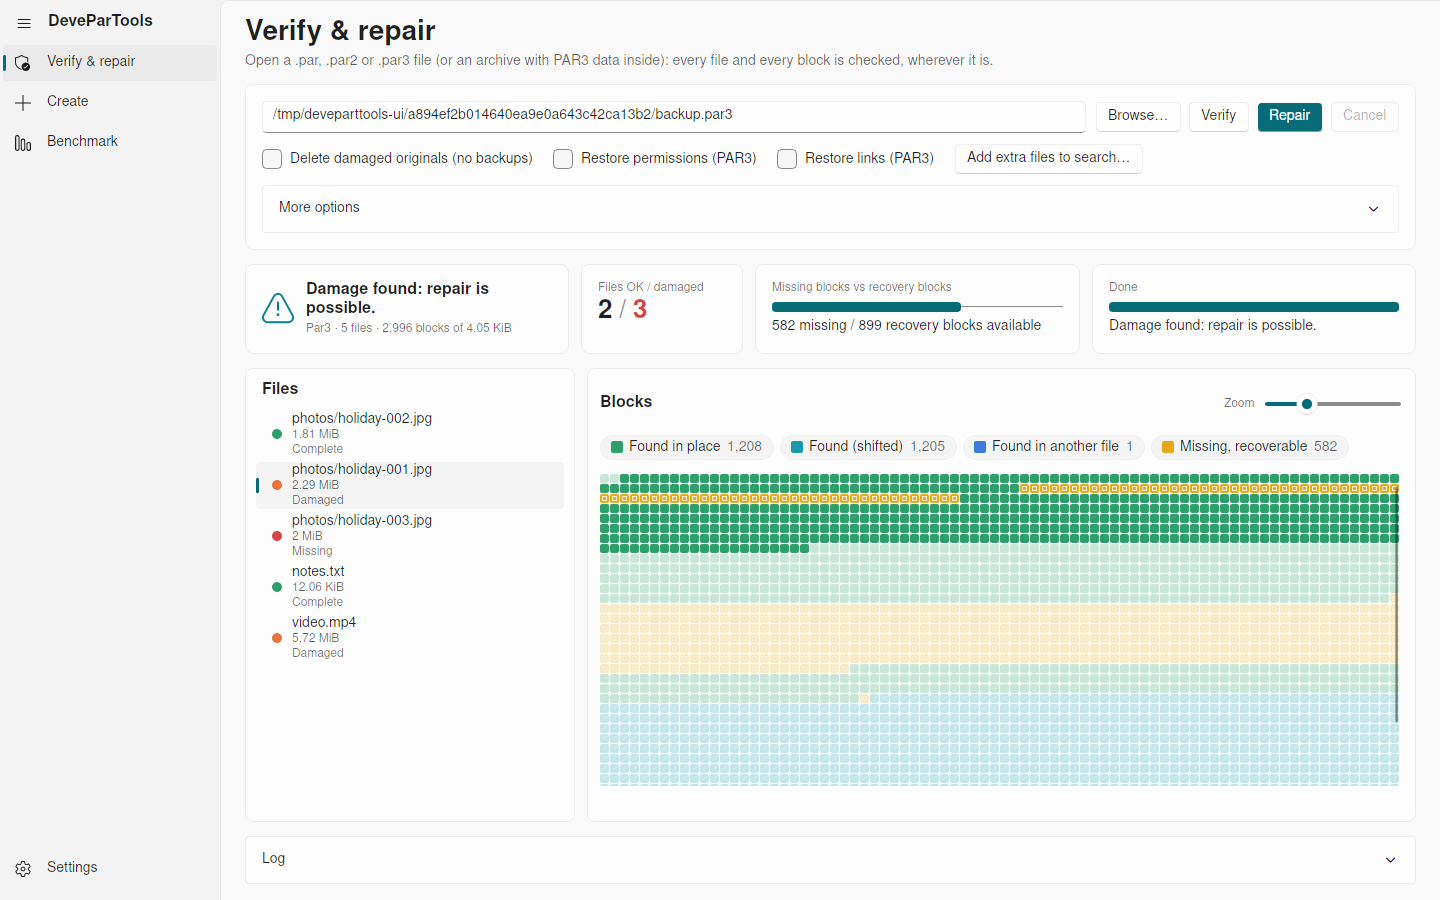
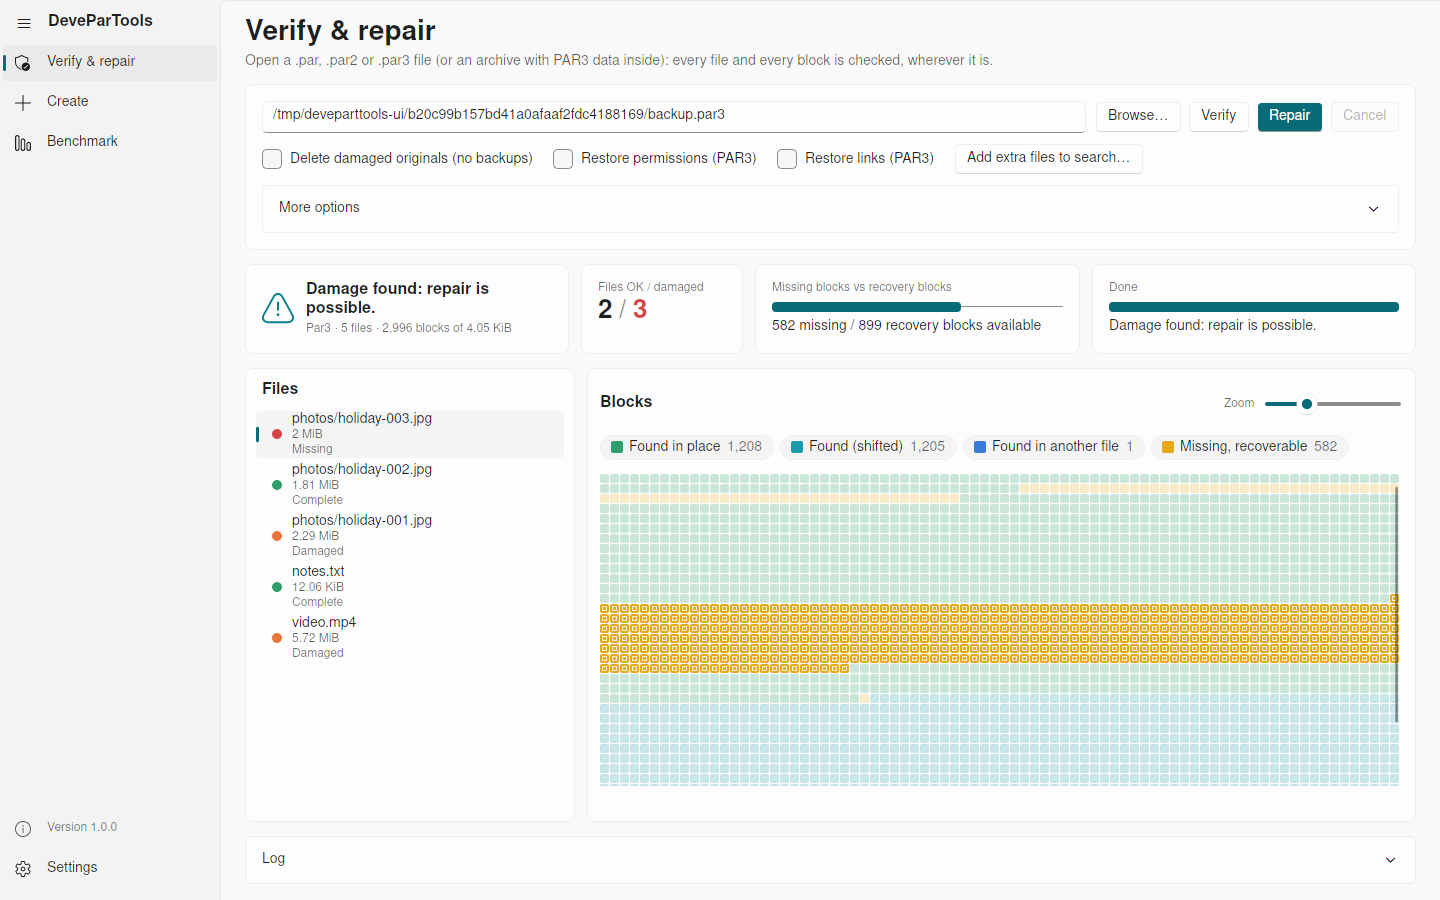
App: show the version in the title bar and above Settings in the navigation pane
The window title is "DeveParTools <version>" and the pane has a dimmed, non-selectable "Version <version>"
entry above Settings (an info icon with tooltip when the pane is collapsed). AppInfo holds name and version
(1.0.<build> from CI); Settings > About uses it too.

diff --git a/DeveParTools.App/ViewModels/ShellViewModel.cs b/DeveParTools.App/ViewModels/ShellViewModel.cs
@@ -1,4 +1,5 @@
 using CommunityToolkit.Mvvm.ComponentModel;
+using DeveParTools.App.Services;
 
 namespace DeveParTools.App.ViewModels;
 
@@ -11,8 +12,13 @@ public enum AppPage
 }
 
 /// <summary>One entry of the navigation pane.</summary>
+/// <param name="Page">The page it opens; null for an entry that only shows something (the version).</param>
 /// <param name="IconKey">Resource key of its icon (Themes/Icons.axaml).</param>
-public sealed record NavigationItem(AppPage Page, string Title, string IconKey);
+public sealed record NavigationItem(AppPage? Page, string Title, string IconKey)
+{
+    /// <summary>Whether clicking it selects it (false for the version entry).</summary>
+    public bool Selectable => Page != null;
+}
 
 /// <summary>The window's view model: navigation between pages that share one settings object.</summary>
 public sealed partial class ShellViewModel : ObservableObject
@@ -25,8 +31,15 @@ public sealed partial class ShellViewModel : ObservableObject
         new(AppPage.Benchmark, "Benchmark", "IconActivity"),
     ];
 
-    /// <summary>The pages at the bottom of the navigation pane.</summary>
-    public IReadOnlyList<NavigationItem> FooterPages { get; } = [new(AppPage.Settings, "Settings", "IconSettings")];
+    /// <summary>The bottom of the navigation pane: the version (not clickable), then Settings.</summary>
+    public IReadOnlyList<NavigationItem> FooterPages { get; } =
+    [
+        new(null, "Version " + AppInfo.Version, "IconInfo"),
+        new(AppPage.Settings, "Settings", "IconSettings"),
+    ];
+
+    /// <summary>The window title, with the version: "DeveParTools 1.0.33".</summary>
+    public string Title => AppInfo.Title;
 
     /// <summary>The navigation pane's selection: always the entry of <see cref="Page"/>.</summary>
     public NavigationItem SelectedNavigation
@@ -34,9 +47,9 @@ public sealed partial class ShellViewModel : ObservableObject
         get => MenuPages.Concat(FooterPages).First(p => p.Page == Page);
         set
         {
-            if (value != null)
+            if (value?.Page is AppPage page)
             {
-                Page = value.Page;
+                Page = page;
             }
         }
     }

diff --git a/DeveParTools.App.Tests/Program.cs b/DeveParTools.App.Tests/Program.cs
@@ -86,6 +86,10 @@ Check(ExplorerContextMenu.ExecutableOf(entries[0].Command) == ProgramFilesExe &&
 var shell = new ShellViewModel();
 var window = new MainWindow { DataContext = shell, Width = 1440, Height = 900 };
 window.Show();
+Dispatcher.UIThread.RunJobs();
+Check(window.Title == "DeveParTools " + DeveParTools.App.Services.AppInfo.Version && shell.FooterPages[0].Title == "Version " + DeveParTools.App.Services.AppInfo.Version, "the version is in the title bar and above Settings: " + window.Title);
+shell.SelectedNavigation = shell.FooterPages[0];
+Check(shell.Page == AppPage.Verify && !shell.FooterPages[0].Selectable, "the version entry is not a page");
 
 // Create page with inputs, then create a PAR3 set through the view model.
 shell.Page = AppPage.Create;

diff --git a/DeveParTools.App/Services/AppInfo.cs b/DeveParTools.App/Services/AppInfo.cs
@@ -1,0 +1,12 @@
+namespace DeveParTools.App.Services;
+
+/// <summary>The app's name and version (the build sets the version: 1.0.&lt;build number&gt; in CI, 1.0.0 locally).</summary>
+public static class AppInfo
+{
+    public const string Name = "DeveParTools";
+
+    public static string Version { get; } = typeof(AppInfo).Assembly.GetName().Version?.ToString(3) ?? "1.0.0";
+
+    /// <summary>The window title, e.g. "DeveParTools 1.0.33".</summary>
+    public static string Title => $"{Name} {Version}";
+}

diff --git a/DeveParTools.App/ViewModels/SettingsViewModel.cs b/DeveParTools.App/ViewModels/SettingsViewModel.cs
@@ -212,7 +212,7 @@ public sealed partial class SettingsViewModel : ObservableObject
 
     public int MaxThreads => Environment.ProcessorCount;
 
-    public string Version => typeof(ShellViewModel).Assembly.GetName().Version?.ToString(3) ?? "1.0.0";
+    public string Version => AppInfo.Version;
 
     public string Runtime => $"{RuntimeInformation.FrameworkDescription} · {RuntimeInformation.OSDescription} · {RuntimeInformation.ProcessArchitecture}";
 
